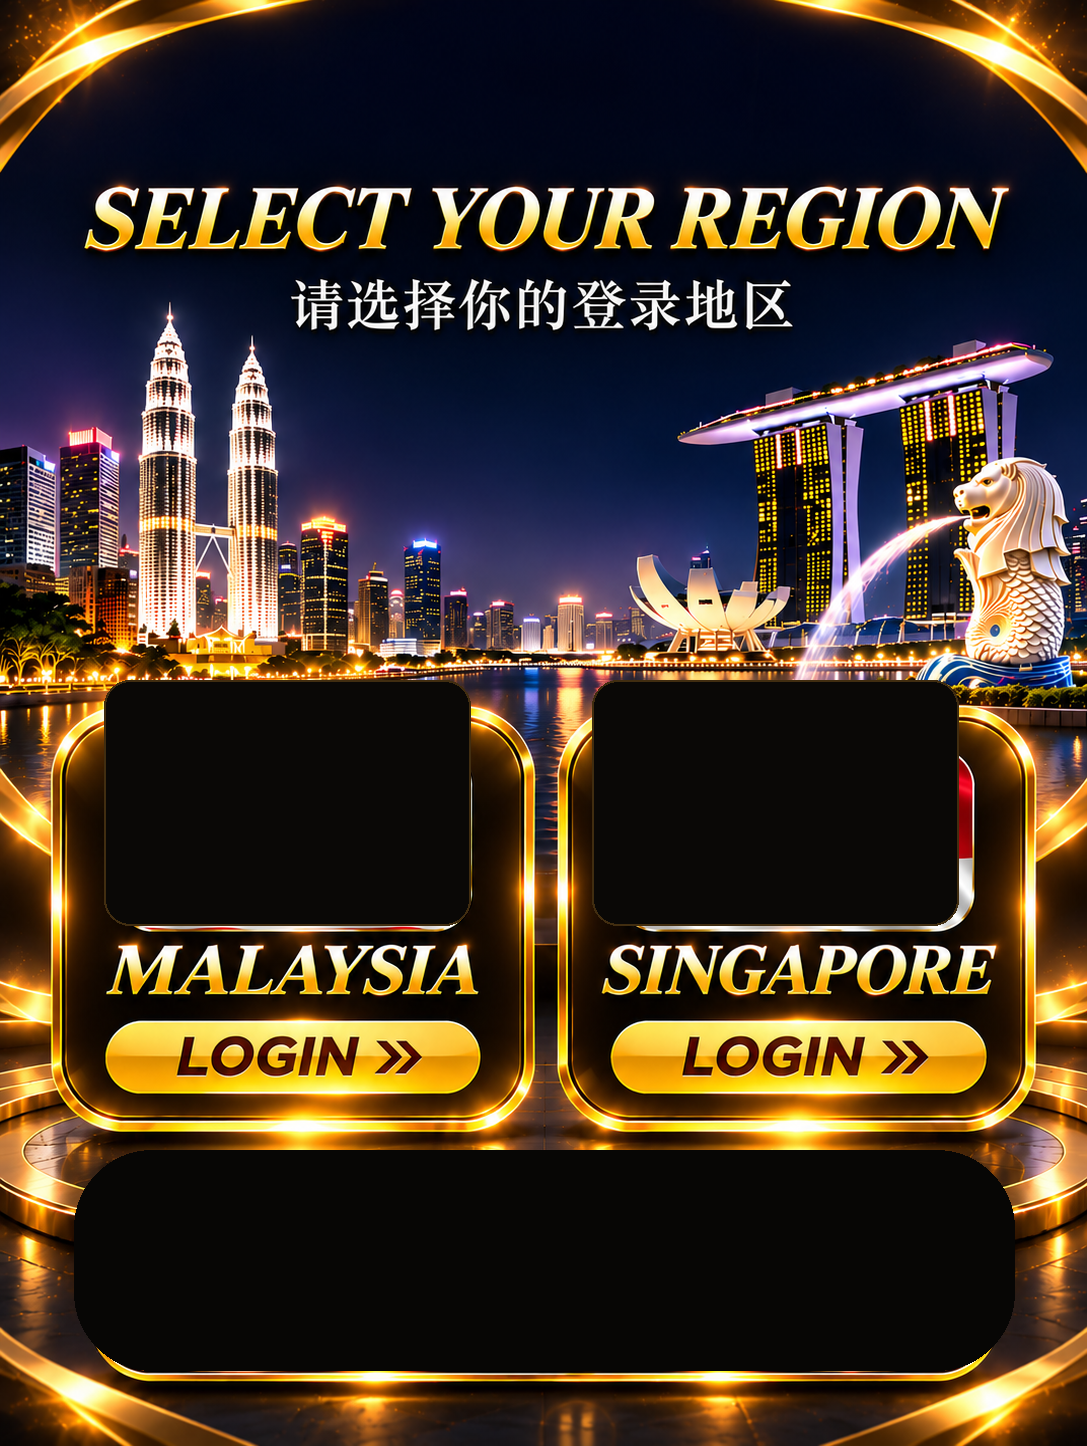
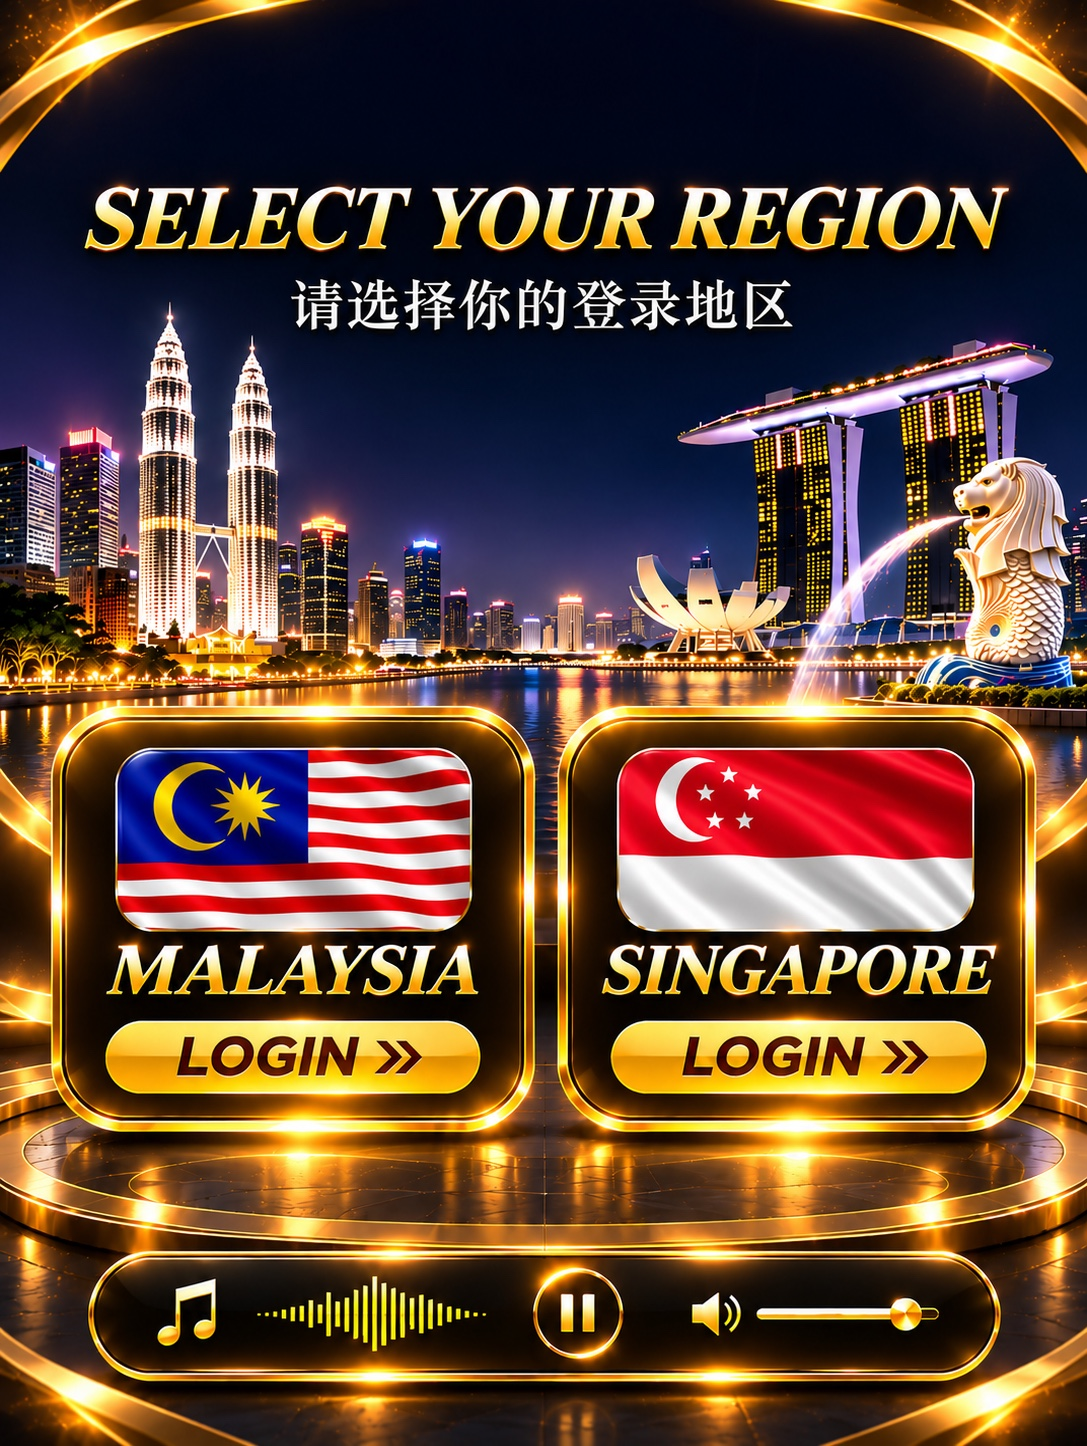
Add files via upload

diff --git a/index.html b/index.html
@@ -2,76 +2,51 @@
 <html lang="zh-CN">
 <head>
 <meta charset="utf-8">
-<meta name="viewport" content="width=device-width, initial-scale=1, viewport-fit=cover">
+<meta name="viewport" content="width=device-width,initial-scale=1,viewport-fit=cover">
 <meta name="theme-color" content="#050505">
-<title>Select Your Region</title>
+<title>TPOWER · Select Your Region</title>
 <style>
-:root{color-scheme:dark;--gold:#f6c85c;--deep:#090705}
 *{box-sizing:border-box}
-html,body{margin:0;width:100%;height:100%;overflow:hidden;background:#030303;font-family:Arial,"Noto Sans SC",sans-serif}
-.stage{position:relative;width:100vw;height:100vh;height:100dvh;overflow:hidden;background:#030303}
-.art{position:absolute;inset:0;width:100%;height:100%;object-fit:fill;user-select:none;-webkit-user-drag:none}
-/* The flag plates are overlaid with accurate vector flags; both occupy the same plate dimensions. */
-.flagplate{position:absolute;top:47.3%;width:33.8%;height:11.55%;display:flex;align-items:center;justify-content:center;overflow:hidden;border-radius:3.2%;filter:drop-shadow(0 3px 7px #000);pointer-events:none}
-.flagplate.my{left:10.9%}.flagplate.sg{left:58.6%}
-.flagplate svg{width:100%;height:100%;display:block}
-.region-link{position:absolute;top:63.2%;height:6.2%;width:35.8%;border-radius:28px;display:block;z-index:3;text-decoration:none;outline:none;-webkit-tap-highlight-color:transparent}
-.region-link.my{left:9.4%}.region-link.sg{left:55.7%}
-.region-link:focus-visible{outline:3px solid #fff2b3;outline-offset:4px}
-.region-link:active{background:rgba(255,225,130,.14)}
-.player{position:absolute;left:8.3%;top:80.5%;width:83.4%;height:11.8%;display:flex;align-items:center;justify-content:center;gap:clamp(8px,2vw,24px);z-index:4;color:#ffe18a;background:linear-gradient(180deg,rgba(28,19,8,.97),rgba(5,4,3,.98));border:2px solid rgba(232,177,55,.9);border-radius:999px;box-shadow:0 0 18px rgba(255,190,55,.28),inset 0 0 14px rgba(255,198,75,.10);padding:0 4%;}
-.play{width:clamp(44px,7vw,68px);height:clamp(44px,7vw,68px);border-radius:50%;border:1px solid rgba(255,220,130,.8);background:rgba(10,7,3,.78);color:#ffe7a5;font-size:clamp(18px,3vw,28px);font-weight:800;box-shadow:0 0 14px rgba(255,190,55,.4);cursor:pointer;flex:none}
-.play:focus-visible,.volume:focus-visible{outline:2px solid white;outline-offset:3px}
-.note{font-size:clamp(20px,4vw,34px);text-shadow:0 0 12px #ffc34c;flex:none}
-.wave{height:35%;width:27%;display:flex;align-items:center;justify-content:center;gap:2px;opacity:.9;overflow:hidden}
-.wave i{display:block;width:2px;max-height:100%;height:var(--h);background:linear-gradient(#fff2a6,#e7a91e);border-radius:3px;box-shadow:0 0 5px #ffca48}
-.wave.playing i{animation:pulse .75s ease-in-out infinite alternate;animation-delay:var(--d)}
-@keyframes pulse{from{transform:scaleY(.35)}to{transform:scaleY(1)}}
-.volicon{font-size:clamp(17px,3vw,25px);flex:none}.volume{width:19%;max-width:125px;accent-color:#f6c34e;height:5px;cursor:pointer}
-.status{position:absolute;left:50%;top:89.5%;transform:translateX(-50%);font-size:10px;color:#e8c878;opacity:0;transition:opacity .2s;white-space:nowrap;z-index:5;text-shadow:0 1px 3px #000}
+html,body{margin:0;width:100%;height:100%;background:#050505;overflow:hidden}
+body{display:grid;place-items:center}
+.poster{position:relative;width:min(100vw,75.17dvh);aspect-ratio:1087/1446;max-height:100dvh;max-width:100vw;background:#050505;overflow:hidden}
+.art{position:absolute;inset:0;width:100%;height:100%;display:block;object-fit:fill;user-select:none;-webkit-user-drag:none}
+.hotspot{position:absolute;display:block;border:0;padding:0;margin:0;background:transparent;cursor:pointer;-webkit-tap-highlight-color:transparent;z-index:2}
+.hotspot:focus-visible{outline:2px solid #fff2b3;outline-offset:2px;border-radius:12px}
+.my{left:8.8%;top:68.1%;width:35.3%;height:6.5%}
+.sg{left:54.5%;top:68.1%;width:36%;height:6.5%}
+.play{left:47.3%;top:85.0%;width:8.5%;height:6.3%;border-radius:50%}
+.volume{left:67.2%;top:87.8%;width:17.2%;height:2.7%;opacity:.01;cursor:pointer}
+.status{position:absolute;left:50%;top:94%;transform:translateX(-50%);color:#f8d77d;font:12px Arial,sans-serif;text-shadow:0 1px 4px #000;opacity:0;pointer-events:none;white-space:nowrap;z-index:3}
 .status.show{opacity:1}
-@media (min-width:700px){.stage{width:min(100vw,66.6667vh);height:min(100vh,150vw);height:min(100dvh,150vw);margin:auto}.art{object-fit:fill}body{display:grid;place-items:center;background:radial-gradient(ellipse,#17100a,#000 70%)}}
-@media (max-height:560px) and (orientation:landscape){.stage{width:100vw;height:100dvh}.player{top:79%;height:10%}.flagplate{top:47%;height:11%}}
-@media(prefers-reduced-motion:reduce){.wave.playing i{animation:none}}
+@media (max-height:520px){.poster{width:auto;height:100dvh;max-width:100vw}}
 </style>
 </head>
 <body>
-<main class="stage" aria-label="Select your login region">
-<img class="art" src="region-background.png" alt="夜景背景：吉隆坡双子塔与新加坡滨海湾地标，黑金地区选择界面">
-<!-- Malaysia flag: official 14-point star, crescent, 14 alternating stripes -->
-<div class="flagplate my" aria-label="Malaysia flag">
-<svg viewBox="0 0 280 140" role="img" aria-label="Flag of Malaysia" xmlns="http://www.w3.org/2000/svg">
-<defs><clipPath id="mclip"><rect width="280" height="140" rx="8"/></clipPath></defs>
-<g clip-path="url(#mclip)"><rect width="280" height="140" fill="#fff"/><g fill="#cc0000"> <path d="M0 0h280v10H0zM0 20h280v10H0zM0 40h280v10H0zM0 60h280v10H0zM0 80h280v10H0zM0 100h280v10H0zM0 120h280v10H0z"/></g><rect width="140" height="70" fill="#010066"/><circle cx="48" cy="35" r="25" fill="#ffcc00"/><circle cx="56" cy="29" r="21" fill="#010066"/><polygon fill="#ffcc00" points="101,7 106,26 123,15 113,32 134,35 114,40 126,57 107,47 101,67 95,47 76,57 88,40 68,35 89,32 79,15 96,26"/></g><rect x="1" y="1" width="278" height="138" rx="8" fill="none" stroke="rgba(255,255,255,.75)" stroke-width="2"/>
-</svg></div>
-<!-- Singapore flag: crescent and five stars; same outer plate size, flag artwork preserves its 3:2 ratio inside -->
-<div class="flagplate sg" aria-label="Singapore flag">
-<svg viewBox="0 0 280 140" role="img" aria-label="Flag of Singapore" xmlns="http://www.w3.org/2000/svg">
-<defs><clipPath id="sclip"><rect width="280" height="140" rx="8"/></clipPath></defs>
-<g clip-path="url(#sclip)"><rect width="280" height="70" fill="#ed2939"/><rect y="70" width="280" height="70" fill="#fff"/><circle cx="57" cy="35" r="23" fill="#fff"/><circle cx="65" cy="29" r="19" fill="#ed2939"/>
-<g fill="#fff"><polygon points="96,12 99,20 108,20 101,25 104,34 96,29 89,34 92,25 85,20 94,20"/><polygon points="119,25 122,33 131,33 124,38 127,47 119,42 112,47 115,38 108,33 117,33"/><polygon points="110,49 113,57 122,57 115,62 118,71 110,66 103,71 106,62 99,57 108,57"/><polygon points="82,49 85,57 94,57 87,62 90,71 82,66 75,71 78,62 71,57 80,57"/><polygon points="73,25 76,33 85,33 78,38 81,47 73,42 66,47 69,38 62,33 71,33"/></g></g><rect x="1" y="1" width="278" height="138" rx="8" fill="none" stroke="rgba(255,255,255,.75)" stroke-width="2"/>
-</svg></div>
-<a class="region-link my" href="https://tinyurl.com/tpowernew" aria-label="Malaysia login"></a>
-<a class="region-link sg" href="https://tinyurl.com/tpowersg" aria-label="Singapore login"></a>
-<div class="player" aria-label="Music controls">
-<span class="note" aria-hidden="true">♫</span>
-<div class="wave" id="wave" aria-hidden="true"></div>
-<button class="play" id="play" type="button" aria-label="Play music">▶</button>
-<span class="volicon" aria-hidden="true">◖))</span>
-<input class="volume" id="volume" type="range" min="0" max="1" step="0.01" value="0.75" aria-label="Volume">
-</div>
-<div class="status" id="status" role="status">点击播放音乐</div>
+<main class="poster" aria-label="TPOWER region selection">
+<img class="art" src="region-background.png" alt="Select your region：Malaysia 与 Singapore 登录地区选择界面">
+<a class="hotspot my" href="https://tinyurl.com/tpowernew" aria-label="Malaysia Login"></a>
+<a class="hotspot sg" href="https://tinyurl.com/tpowersg" aria-label="Singapore Login"></a>
+<button class="hotspot play" id="play" type="button" aria-label="播放或暂停音乐"></button>
+<input class="hotspot volume" id="volume" type="range" min="0" max="1" step="0.01" value="0.75" aria-label="调整音乐音量">
+<div class="status" id="status" role="status">点击音乐按钮播放</div>
 <audio id="audio" src="TPOWER.mp3" preload="auto" loop playsinline></audio>
 </main>
 <script>
-const audio=document.getElementById('audio'), play=document.getElementById('play'), volume=document.getElementById('volume'), wave=document.getElementById('wave'), status=document.getElementById('status');
-for(let i=0;i<29;i++){const bar=document.createElement('i');bar.style.setProperty('--h',(18+Math.abs(Math.sin(i*.73))*78)+'%');bar.style.setProperty('--d',(-i*.035)+'s');wave.appendChild(bar)}
+const audio=document.getElementById('audio');
+const play=document.getElementById('play');
+const volume=document.getElementById('volume');
+const status=document.getElementById('status');
 audio.volume=Number(volume.value);
-function setPlaying(on){play.textContent=on?'Ⅱ':'▶';play.setAttribute('aria-label',on?'Pause music':'Play music');wave.classList.toggle('playing',on)}
-play.addEventListener('click',async()=>{if(audio.paused){try{await audio.play();setPlaying(true);status.classList.remove('show')}catch(e){status.textContent='无法播放，请检查音频文件';status.classList.add('show')}}else{audio.pause();setPlaying(false)}});
+function sync(){play.setAttribute('aria-label',audio.paused?'播放音乐':'暂停音乐')}
+play.addEventListener('click',async()=>{
+ if(audio.paused){try{await audio.play();status.classList.remove('show')}catch(e){status.textContent='请再点击一次播放音乐';status.classList.add('show')}}
+ else{audio.pause()}
+ sync();
+});
 volume.addEventListener('input',()=>{audio.volume=Number(volume.value)});
-audio.addEventListener('play',()=>setPlaying(true));audio.addEventListener('pause',()=>setPlaying(false));
-// Attempt autoplay; browsers such as iOS Safari may require a user gesture.
-window.addEventListener('load',async()=>{try{await audio.play();setPlaying(true)}catch(e){setPlaying(false);status.classList.add('show')}});
+audio.addEventListener('play',sync);audio.addEventListener('pause',sync);
+window.addEventListener('load',async()=>{try{await audio.play();status.classList.remove('show')}catch(e){status.classList.add('show')}sync()});
 </script>
-</body></html>
+</body>
+</html>
